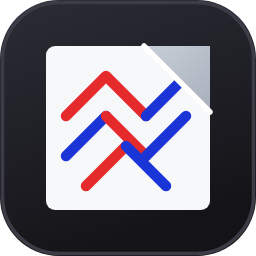
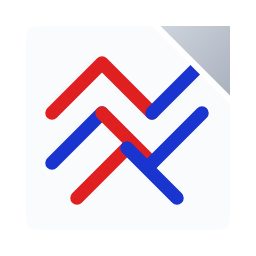
fix: 图标去掉深色底板与外边框
窗口默认深色主题，标题栏背景与程序底色同深。深色底板放在深色标题栏里
等于「黑方块里画白纸」—— 边框成了唯一可见轮廓，又厚又难看，
用户实际只能看到中间的白纸。

改为让纸自己立得住：
- 去掉深色底板与7px 外边框，无描边。白纸是高对比色，深色浅色背景下
  都能界定形状；红蓝折痕饱和度高，天然有对比度，不依赖底板
- 纸的占比从 70% 提到 80%（边距 76 -> 52）：标题栏里图标显示得小，
  边距太宽纸就太小、折痕糊成一团
- 折痕线宽 21 -> 27，小尺寸下更清楚

ico 体积从 37KB 降到 15.6KB（去掉了大面积的深色渐变底板）。

顺带修 tools/make-icon.py：路径写死了绝对路径且指向已删除的临时目录，
换成从脚本自身位置推导 + 渲染器在 Edge/Chrome 间自动选择。

diff --git a/tools/make-icon.py b/tools/make-icon.py
@@ -20,10 +20,30 @@ import struct
 import subprocess
 import tempfile
 
-TMP = r"C:\Users\Administrator\AppData\Local\Temp\icongen"
-EDGE = r"C:\Program Files (x86)\Microsoft\Edge\Application\msedge.exe"
-SVG = os.path.join(TMP, "icon.svg")
-ASSETS = r"G:\LLM\WorkBuddy_Space\代码编写1\origami\src\Origami.Desktop\Assets"
+# 路径全部从脚本自身位置推导，不写死绝对路径 —— 换机器/ 换目录也能跑
+ROOT = os.path.dirname(os.path.dirname(os.path.abspath(__file__)))
+ASSETS = os.path.join(ROOT, "src", "Origami.Desktop", "Assets")
+SVG_SRC = os.path.join(ASSETS, "icon.svg")
+
+# 中间产物落在系统临时目录，不污染仓库
+TMP = os.path.join(tempfile.gettempdir(), "origami-icon-build")
+os.makedirs(TMP, exist_ok=True)
+
+# 渲染器：Edge 优先，其次 Chrome
+EDGE = next(
+    (p for p in [
+        r"C:\Program Files (x86)\Microsoft\Edge\Application\msedge.exe",
+        r"C:\Program Files\Microsoft\Edge\Application\msedge.exe",
+        r"C:\Program Files\Google\Chrome\Application\chrome.exe",
+        r"C:\Program Files (x86)\Google\Chrome\Application\chrome.exe",
+    ] if os.path.exists(p)),
+    None,
+)
+if EDGE is None:
+    raise SystemExit("找不到 Edge 或 Chrome，无法渲染 SVG")
+
+# 渲染用的 SVG 副本（HTML 里以相对路径引用）
+shutil.copy(SVG_SRC, os.path.join(TMP, "icon.svg"))
 
 # Windows 会按 DPI 与场景挑选：16 任务栏、32 任务栏(大)、48/64 资源管理器、
 # 128/256 高DPI 与大图标预览
